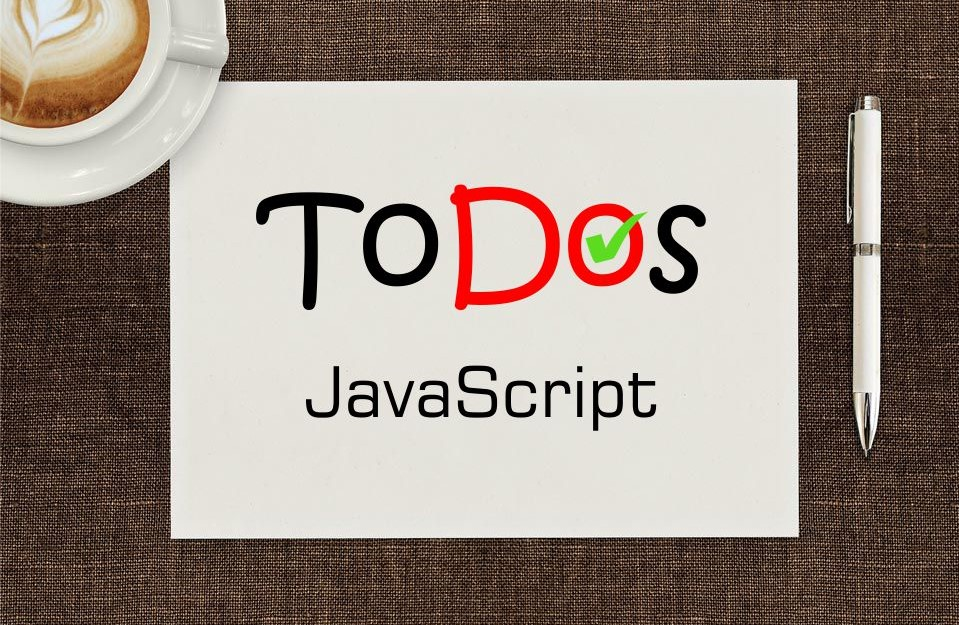
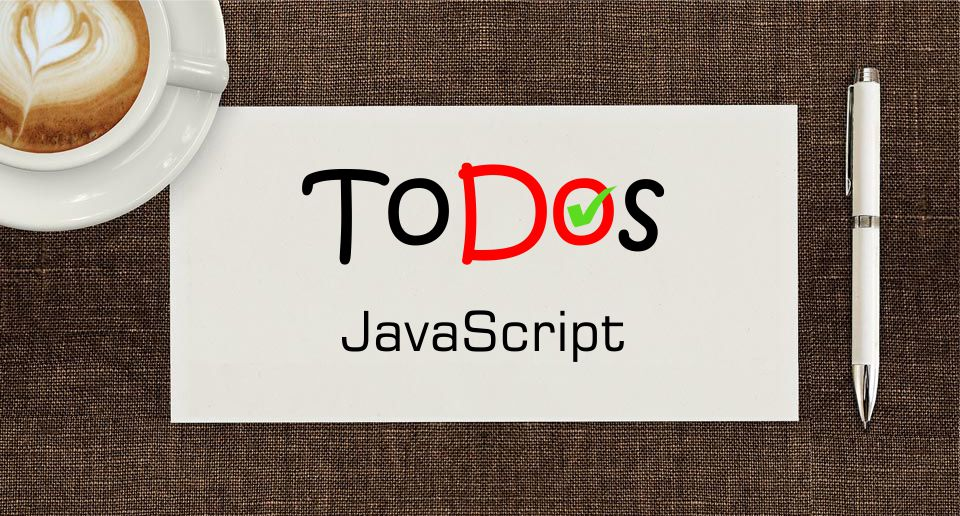
Change pictures for 7, 8 and 9 project. Add titles and description

diff --git a/index.html b/index.html
@@ -120,7 +120,7 @@
 								</a>
 							</div>
 							<h5>Tortoiseshell Optics, Codecademy</h5>
-							<p class="pb-3">Building a responsive webpage using design mock-ups and specifications. <b>HTML, CSS</b></p>
+							<p class="pb-3">Building a responsive webpage using design mock-ups and specifications. <b>HTML, CSS, Media Queries</b></p>
 						</div>
 					</div>
 					<!-- Project 3 -->
@@ -185,8 +185,8 @@
 									<img src="./resources/img/project7.jpg" alt="">
 								</a>
 							</div>
-							<h5>Title</h5>
-							<p class="pb-3">Description</p>
+							<h5>To Do App</h5>
+							<p class="pb-3">Building interactive To Do List App using <b>JavaScript</b></p>
 						</div>
 					</div>
 					<!-- Project 8 -->
@@ -197,8 +197,8 @@
 									<img src="./resources/img/project8.jpg" alt="">
 								</a>
 							</div>
-							<h5>Title</h5>
-							<p class="pb-3">Description</p>
+							<h5>To Do App</h5>
+							<p class="pb-3">Building interactive To Do List App using <b>jQuery</b></p>
 						</div>
 					</div>
 					<!-- Project 9 -->
@@ -209,8 +209,8 @@
 									<img src="./resources/img/project9.jpg" alt="">
 								</a>
 							</div>
-							<h5>Title</h5>
-							<p class="pb-3">Description</p>
+							<h5>To Do App</h5>
+							<p class="pb-3">Building interactive To Do List App using <b>Vue.js</b></p>
 						</div>
 					</div>
 				</div>
